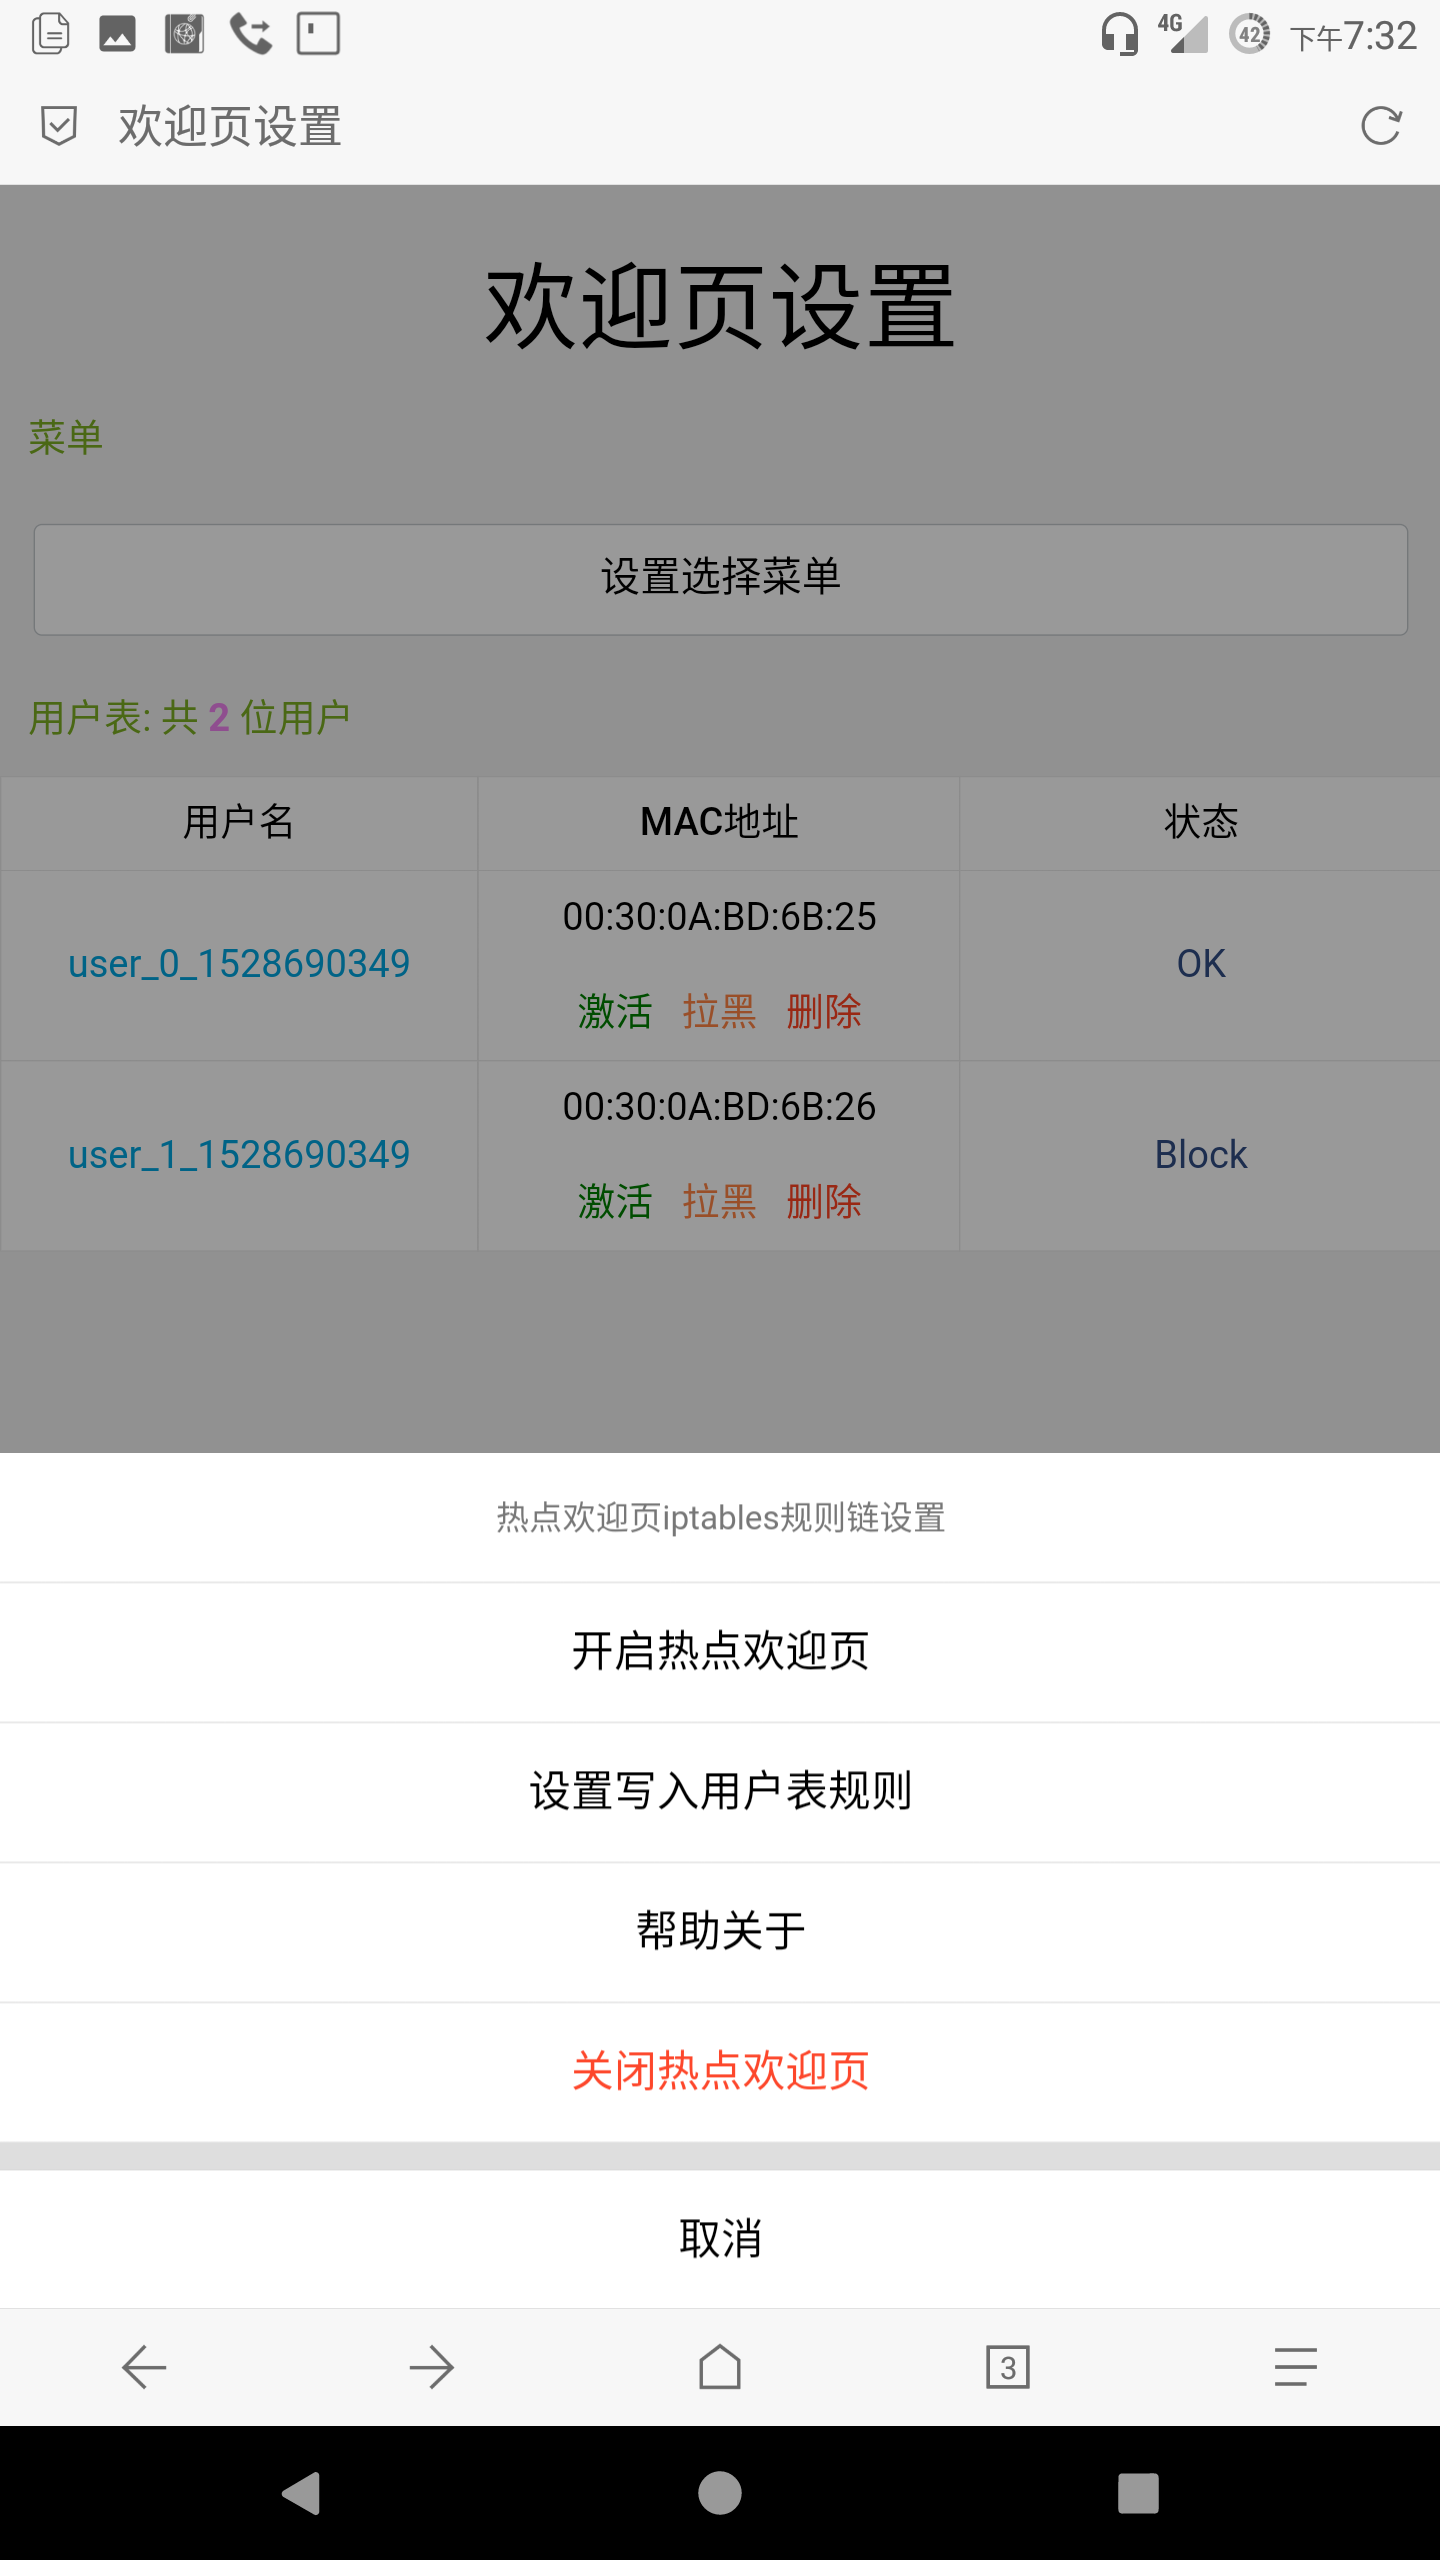
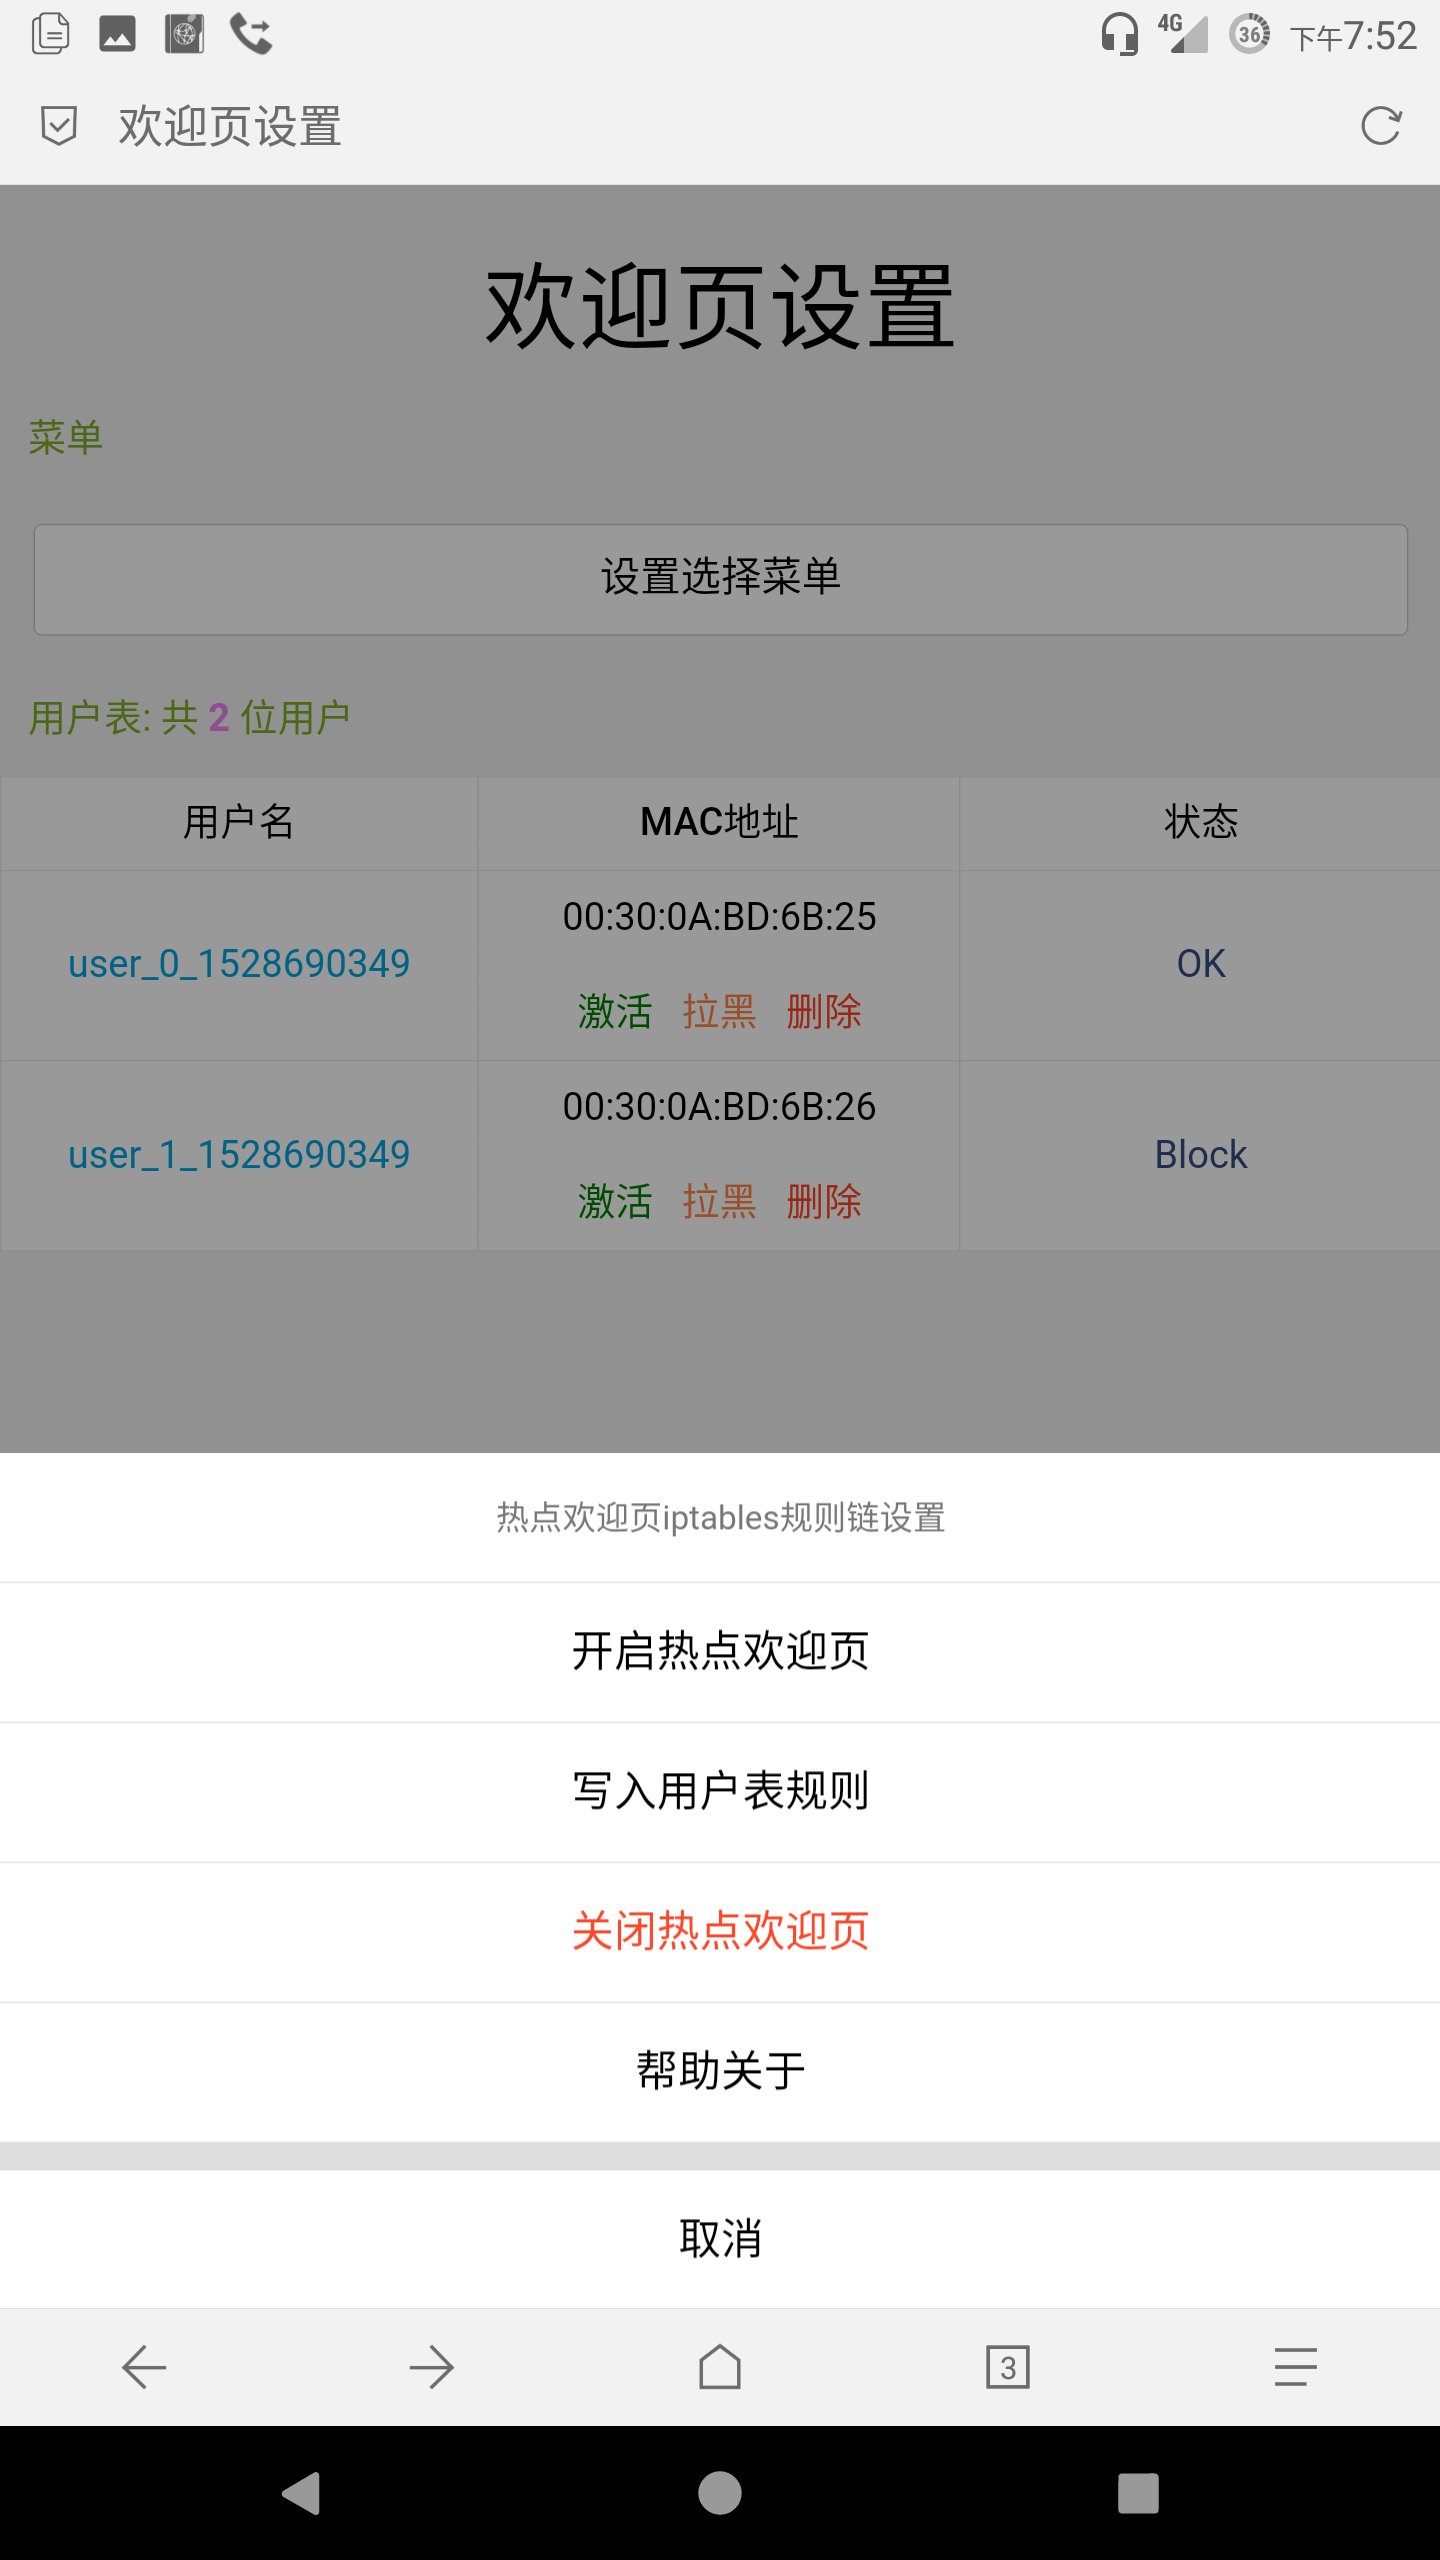
修复成吨bug

Changed region(s): [[0.4062, 0.75, 0.5938, 0.8125], [0.375, 0.6875, 0.625, 0.7188]]

diff --git a/Welcom/index.php b/Welcom/index.php
@@ -20,7 +20,7 @@ die('你无权访问本页面');
 
 <body ontouchstart>
 
-<section class="ui-container"><section id="actionsheet"><a href="../Admin"><h1 class="title">欢迎页设置</h1></a><div class="demo-item">		<p class="demo-desc">菜单</p>		<div class="demo-block">			<div class="ui-actionsheet" id="actionsheet1">				<div class="ui-actionsheet-cnt am-actionsheet-down">					<h4>热点欢迎页iptables规则链设置</h4>					<button onclick="iptables('kq')">开启热点欢迎页</button>					<button onclick="iptables('cz')">设置写入用户表规则</button>     <button onclick="help_about();">帮助关于</button>     <button class="ui-actionsheet-del" onclick="iptables('gb')">关闭热点欢迎页</button>					<div class="ui-actionsheet-split-line"></div>					<button id="cancel">取消</button>				</div>			</div>		</div>	</div></section><div class="ui-btn-wrap" id="btn1"><button class="ui-btn-lg">设置选择菜单</button></div></section>
+<section class="ui-container"><section id="actionsheet"><a href="../Admin"><h1 class="title">欢迎页设置</h1></a><div class="demo-item">		<p class="demo-desc">菜单</p>		<div class="demo-block">			<div class="ui-actionsheet" id="actionsheet1">				<div class="ui-actionsheet-cnt am-actionsheet-down">					<h4>热点欢迎页iptables规则链设置</h4>					<button onclick="iptables('kq')">开启热点欢迎页</button>					<button onclick="iptables('cz')">写入用户表规则</button>     <button class="ui-actionsheet-del" onclick="iptables('gb')">关闭热点欢迎页</button>					<button onclick="help_about();">帮助关于</button>     <div class="ui-actionsheet-split-line"></div>					<button id="cancel">取消</button>				</div>			</div>		</div>	</div></section><div class="ui-btn-wrap" id="btn1"><button class="ui-btn-lg">设置选择菜单</button></div></section>
 <?php
     $user_file="user.json";
     $data=json_decode(file_get_contents($user_file), true);
